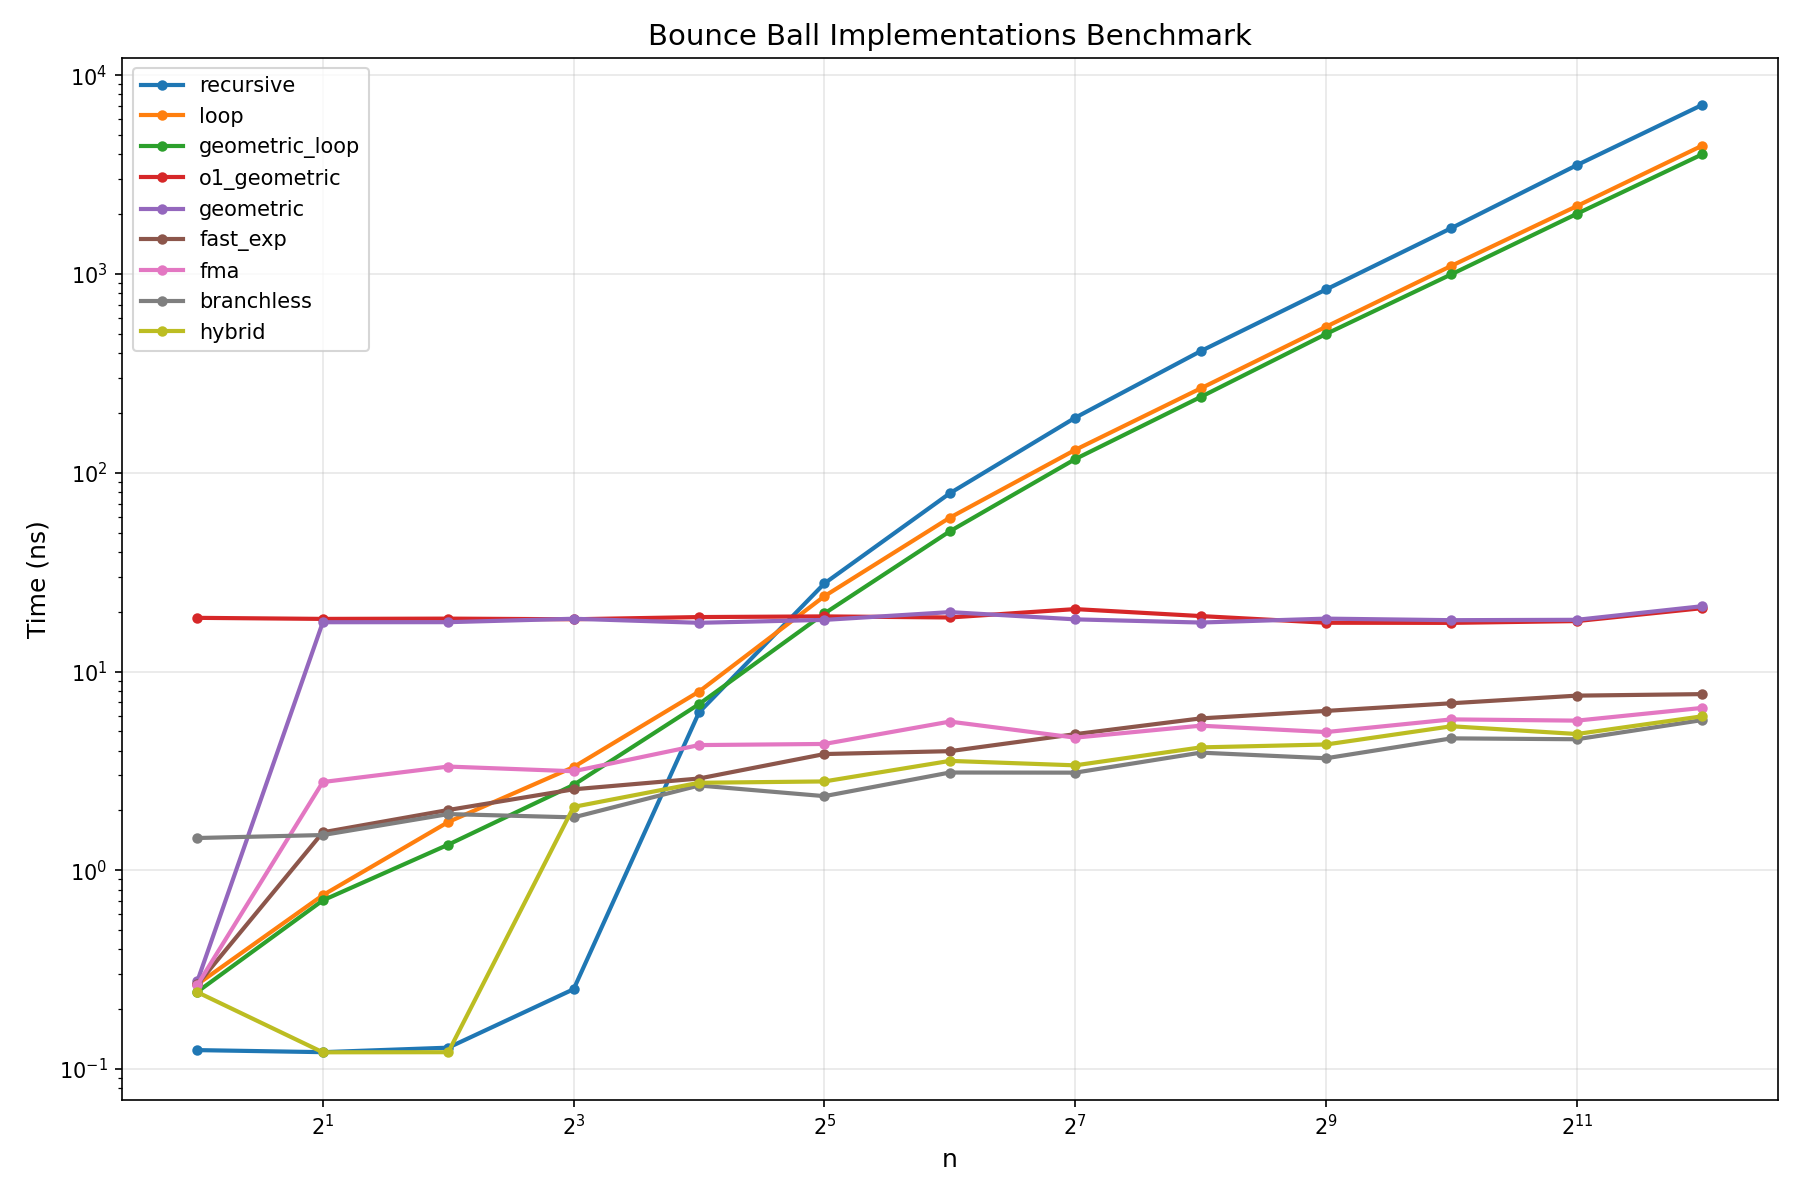
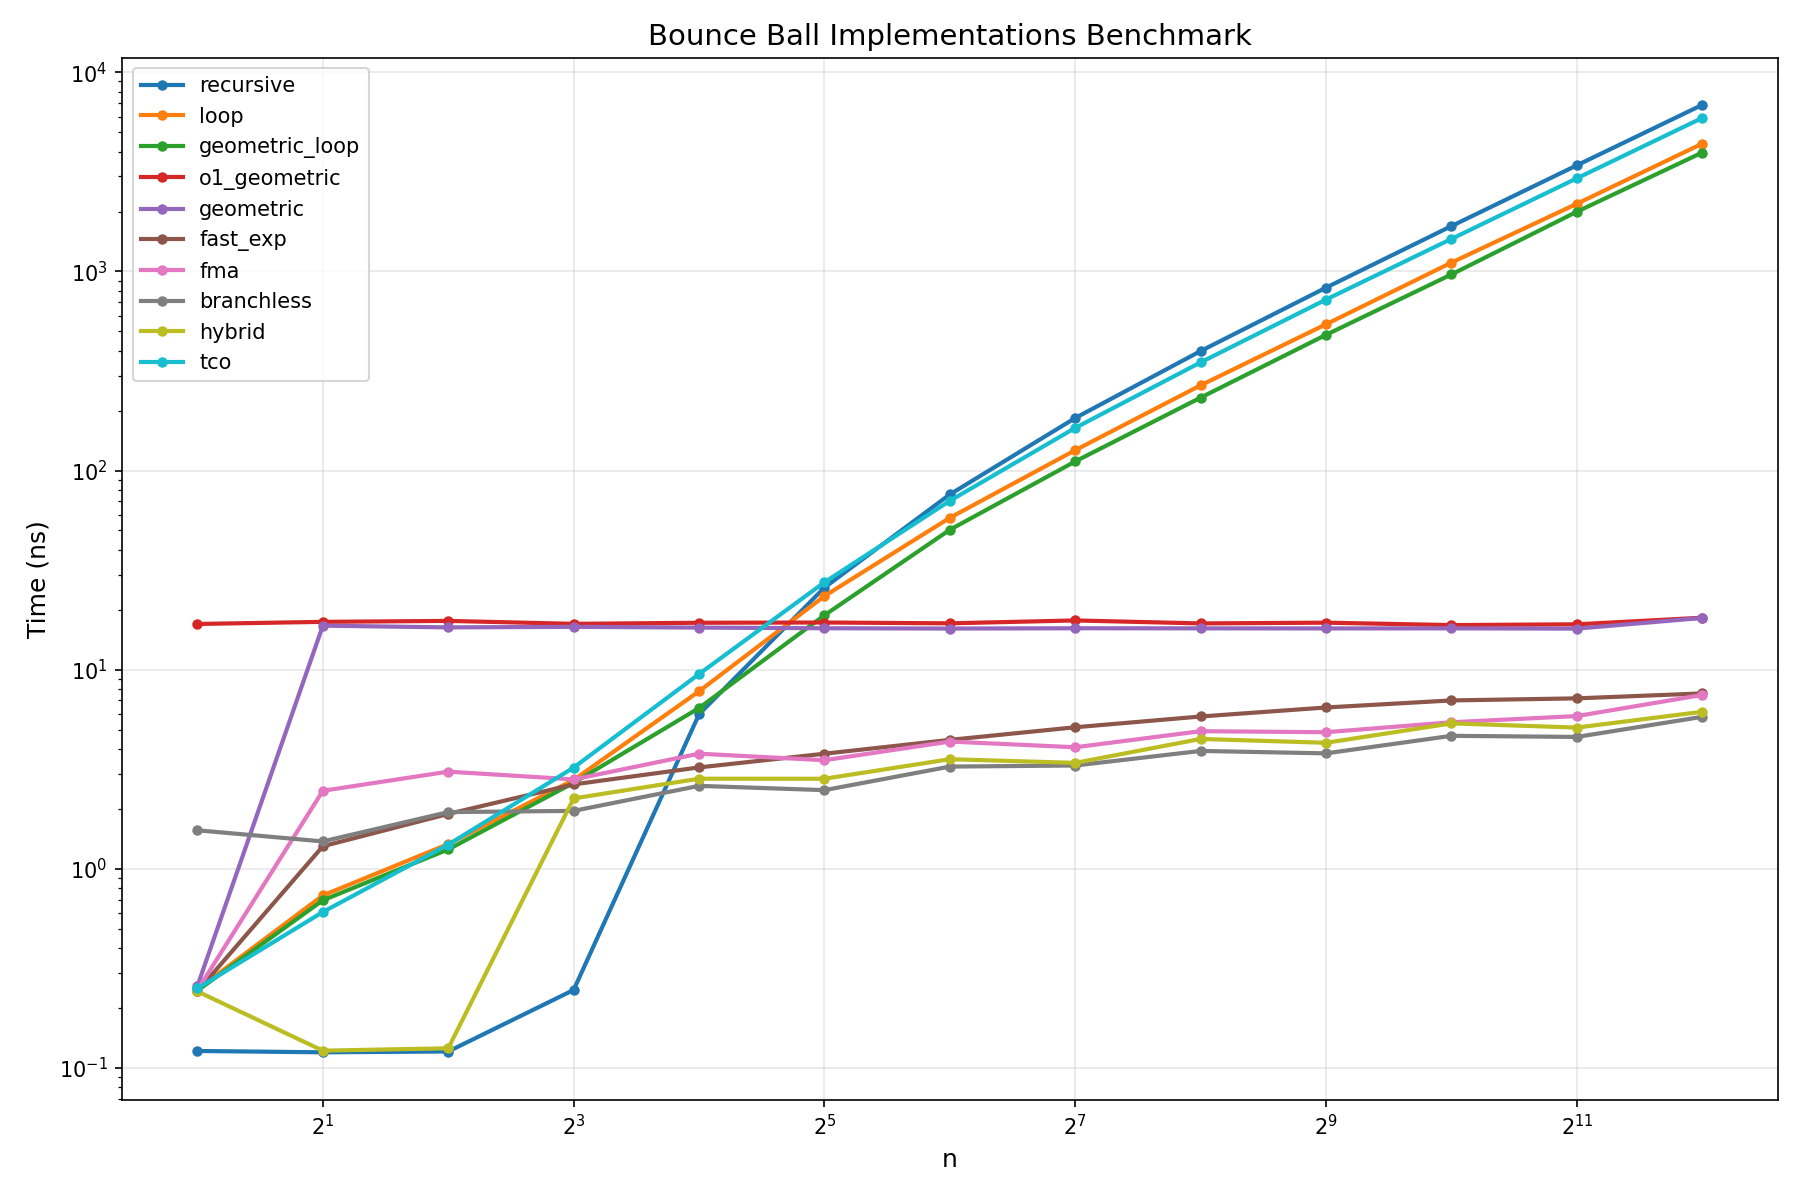
added tco recursive function

diff --git a/bench/bench.cpp b/bench/bench.cpp
@@ -75,4 +75,12 @@ static void BM_hybrid(benchmark::State& state) {
 }
 BENCHMARK(BM_hybrid)->RangeMultiplier(2)->Range(1, MAX_N)->Complexity();
 
+static void BM_tco(benchmark::State& state) {
+	int n = state.range(0);
+	for (auto _ : state)
+		benchmark::DoNotOptimize(bounce_recursive_tco(10.0, 0.85, n));
+	state.SetComplexityN(n);
+}
+BENCHMARK(BM_tco)->RangeMultiplier(2)->Range(1, MAX_N)->Complexity();
+
 BENCHMARK_MAIN();

diff --git a/src/BouncyBall.cpp b/src/BouncyBall.cpp
@@ -14,6 +14,16 @@ double bounce_recursive(double h, double r, int n)
 	}
 	return h;
 }
+double bounce_recursive_tco(double h, double r, int n, double accumulator)
+{
+	auto dist = accumulator + h;
+	if (n != 1)
+	{
+		dist += r * h;
+		return bounce_recursive_tco(h * r, r, n - 1, dist);
+	}
+	return dist;
+}
 double bounce_loop(double h, double r, int n)
 {
 	double dist = h;

diff --git a/include/BouncyBall.hpp b/include/BouncyBall.hpp
@@ -7,6 +7,8 @@
 
 double bounce_recursive(double h, double r, int n);
 
+double bounce_recursive_tco(double h, double r, int n, double accumulator = 0.0);
+
 double bounce_loop(double h, double r, int n);
 
 double bounce_geometric_loop(double h, double r, int n);
